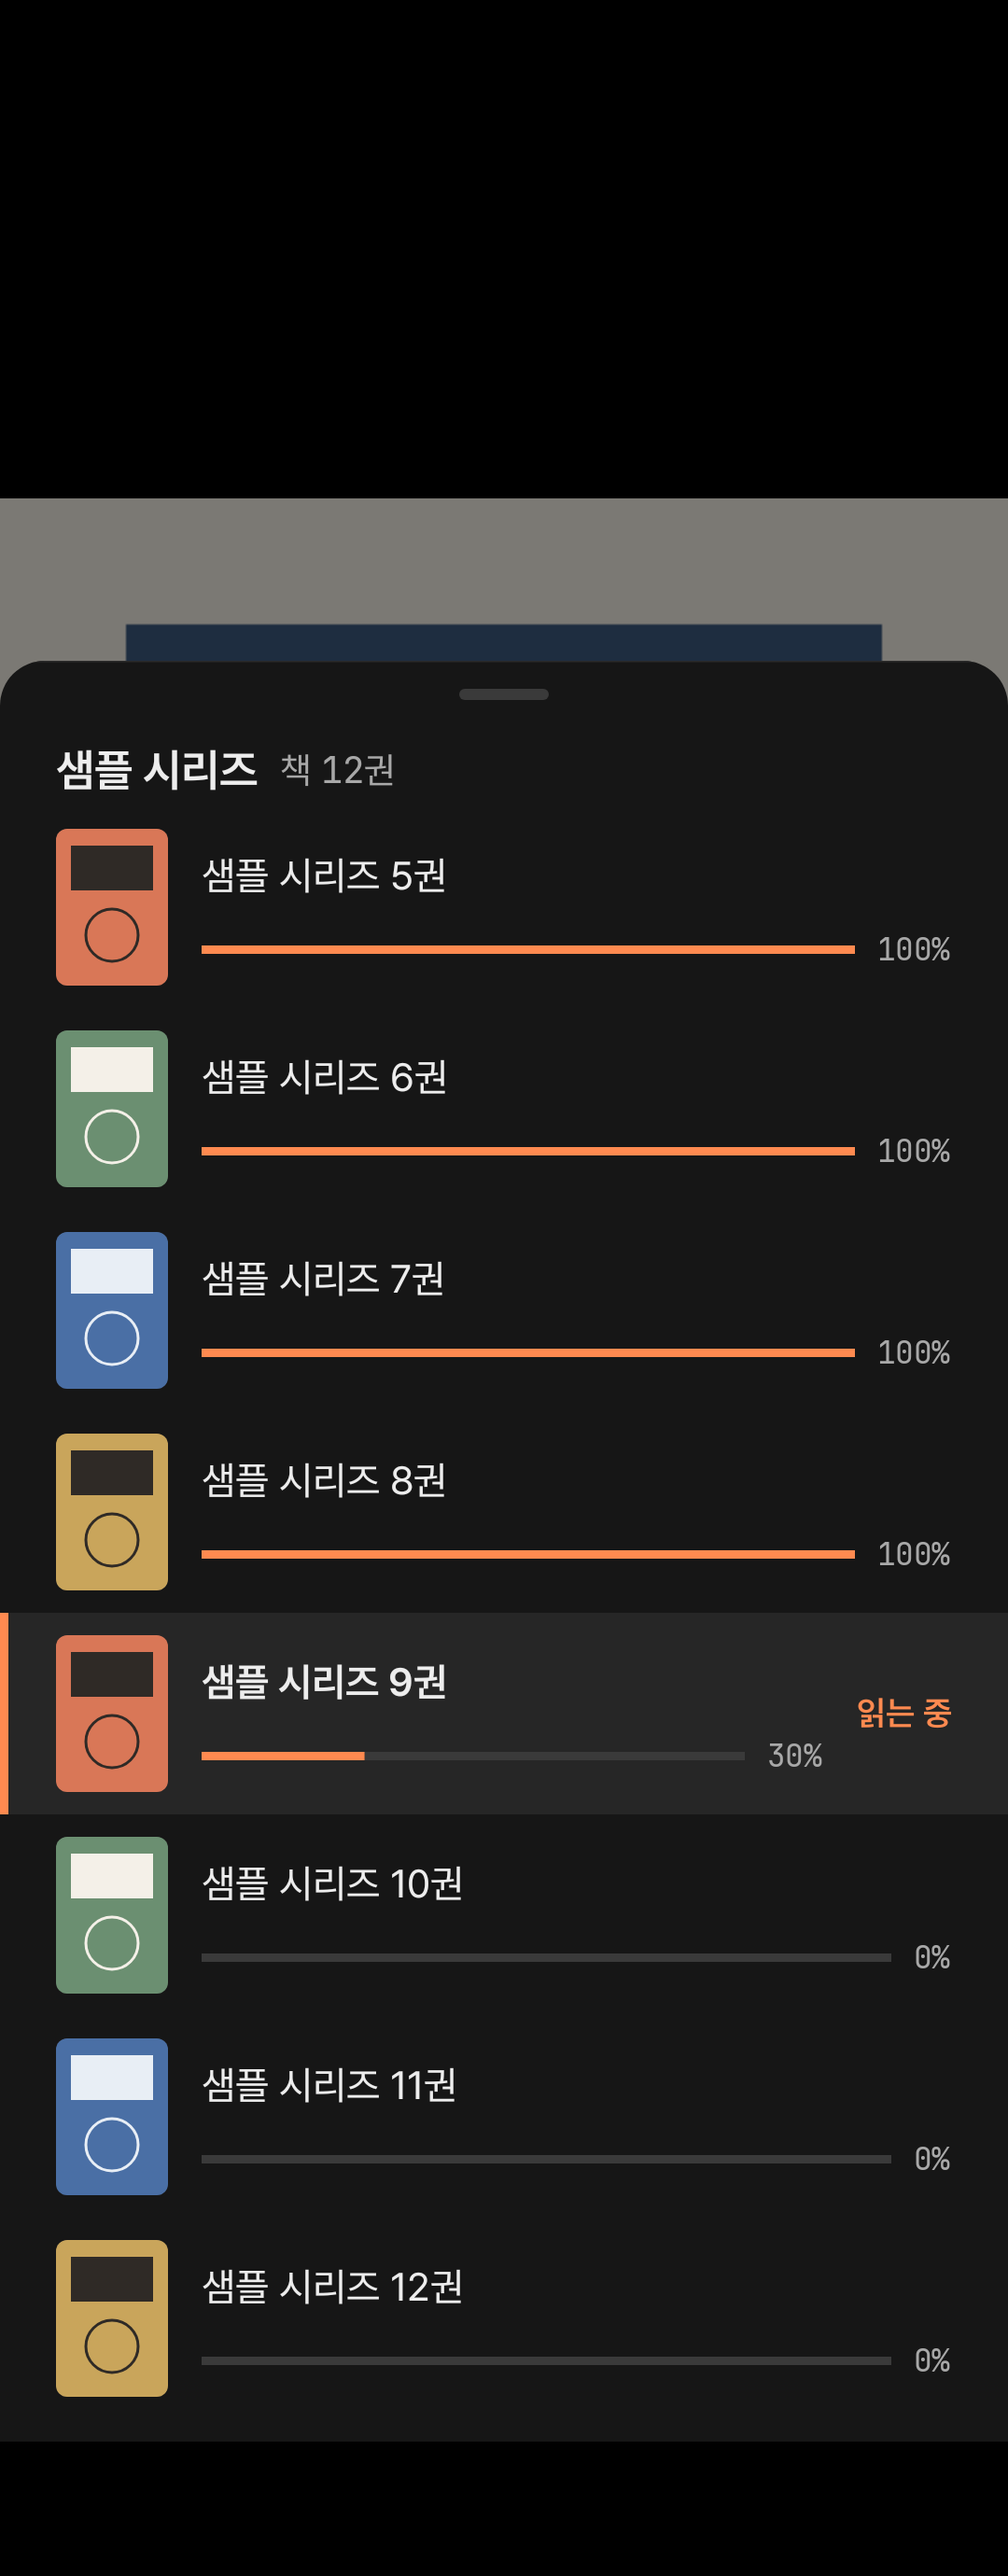
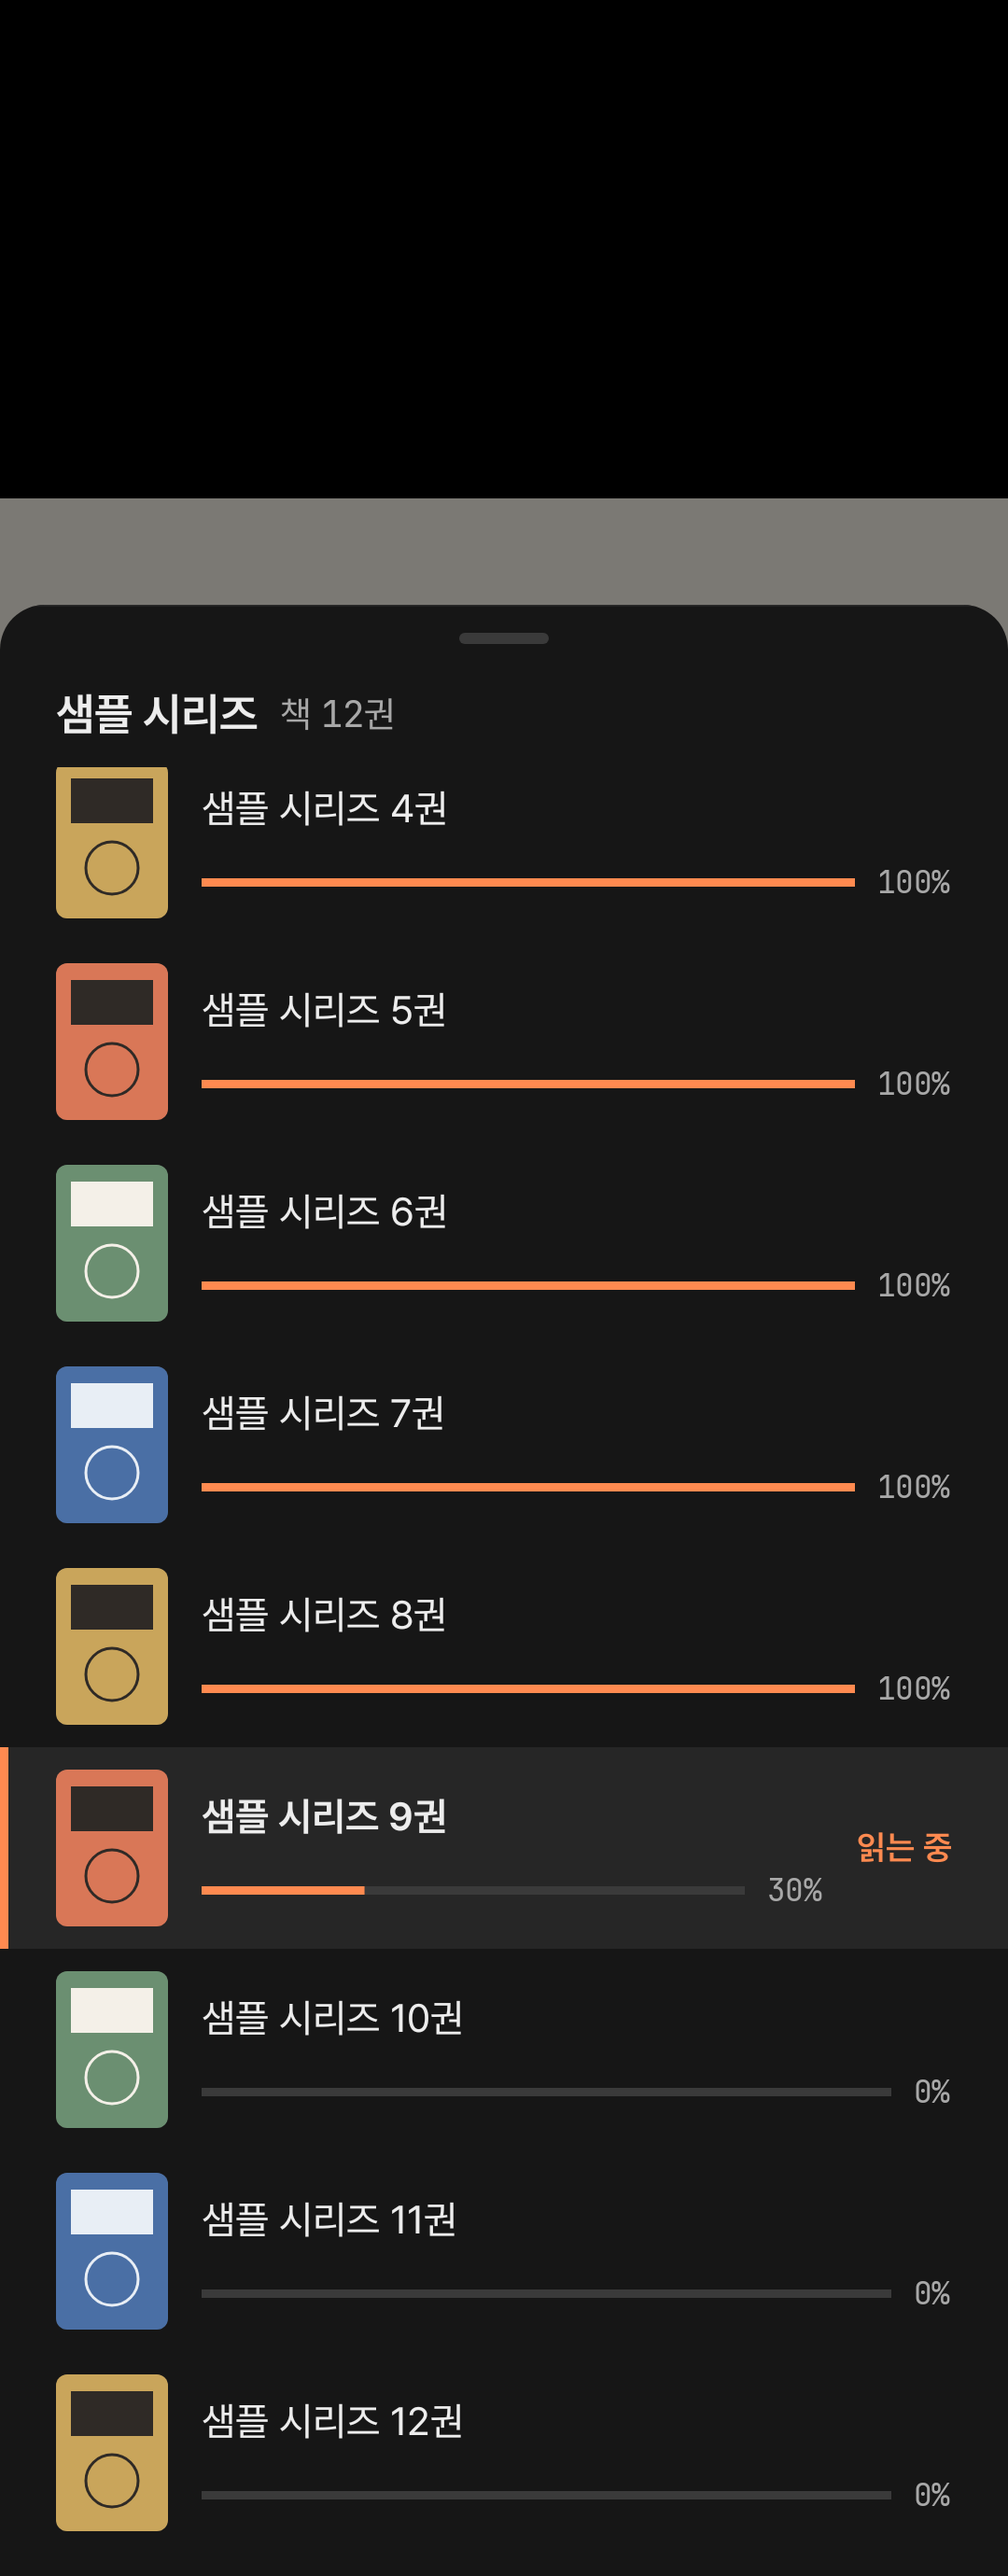
feat(reader): show book list in a modal bottom sheet

diff --git a/app/src/main/java/org/parkjw/apps/pdfbook/BookListSheet.kt b/app/src/main/java/org/parkjw/apps/pdfbook/BookListSheet.kt
@@ -4,11 +4,8 @@ import android.graphics.Bitmap
 import androidx.compose.foundation.Image
 import androidx.compose.foundation.background
 import androidx.compose.foundation.clickable
-import androidx.compose.foundation.gestures.detectTapGestures
-import androidx.compose.foundation.interaction.MutableInteractionSource
 import androidx.compose.foundation.layout.Arrangement
 import androidx.compose.foundation.layout.Box
-import androidx.compose.foundation.layout.BoxWithConstraints
 import androidx.compose.foundation.layout.Column
 import androidx.compose.foundation.layout.Row
 import androidx.compose.foundation.layout.Spacer
@@ -19,17 +16,23 @@ import androidx.compose.foundation.layout.heightIn
 import androidx.compose.foundation.layout.padding
 import androidx.compose.foundation.layout.size
 import androidx.compose.foundation.layout.width
-import androidx.compose.foundation.layout.widthIn
 import androidx.compose.foundation.lazy.LazyColumn
 import androidx.compose.foundation.lazy.itemsIndexed
 import androidx.compose.foundation.lazy.rememberLazyListState
 import androidx.compose.foundation.shape.RoundedCornerShape
+import androidx.compose.material3.ExperimentalMaterial3Api
 import androidx.compose.material3.MaterialTheme
+import androidx.compose.material3.ModalBottomSheet
 import androidx.compose.material3.Text
+import androidx.compose.material3.rememberModalBottomSheetState
 import androidx.compose.runtime.Composable
 import androidx.compose.runtime.getValue
+import androidx.compose.runtime.mutableStateOf
 import androidx.compose.runtime.produceState
 import androidx.compose.runtime.remember
+import androidx.compose.runtime.rememberCoroutineScope
+import androidx.compose.runtime.rememberUpdatedState
+import androidx.compose.runtime.setValue
 import androidx.compose.ui.Alignment
 import androidx.compose.ui.Modifier
 import androidx.compose.ui.draw.clip
@@ -37,9 +40,10 @@ import androidx.compose.ui.draw.drawBehind
 import androidx.compose.ui.geometry.Offset
 import androidx.compose.ui.geometry.Size
 import androidx.compose.ui.graphics.asImageBitmap
-import androidx.compose.ui.input.pointer.pointerInput
 import androidx.compose.ui.layout.ContentScale
 import androidx.compose.ui.platform.LocalContext
+import androidx.compose.ui.platform.LocalDensity
+import androidx.compose.ui.platform.LocalWindowInfo
 import androidx.compose.ui.platform.testTag
 import androidx.compose.ui.res.pluralStringResource
 import androidx.compose.ui.res.stringResource
@@ -65,12 +69,13 @@ import org.parkjw.apps.pdfbook.ui.theme.ReaderOverlay
 import org.parkjw.apps.pdfbook.ui.theme.ReaderScrim
 import org.parkjw.apps.pdfbook.ui.theme.ReaderTrack
 import org.parkjw.apps.pdfbook.ui.theme.withNumericSpans
+import kotlinx.coroutines.launch
 
 const val BOOK_LIST_SHEET_TAG = "book_list_sheet"
-const val BOOK_LIST_SCRIM_TAG = "book_list_scrim"
 
 private val ThumbCorner = RoundedCornerShape(4.dp)
 
+@OptIn(ExperimentalMaterial3Api::class)
 @Composable
 fun BookListSheet(
     folderName: String,
@@ -80,41 +85,52 @@ fun BookListSheet(
     modifier: Modifier = Modifier,
     covers: Map<String, Bitmap?> = emptyMap(),
 ) {
-    BoxWithConstraints(modifier.fillMaxSize()) {
-        val sheetMaxHeight = maxHeight * 0.75f
-        Box(
-            Modifier
-                .fillMaxSize()
-                .testTag(BOOK_LIST_SCRIM_TAG)
-                .background(ReaderScrim)
-                .clickable(
-                    interactionSource = remember { MutableInteractionSource() },
-                    indication = null,
-                    onClick = onDismiss,
-                ),
-        )
-        Column(
-            modifier = Modifier
-                .align(Alignment.BottomCenter)
-                .widthIn(max = 640.dp)
-                .fillMaxWidth()
-                .heightIn(max = sheetMaxHeight)
-                .testTag(BOOK_LIST_SHEET_TAG)
-                .clip(RoundedCornerShape(topStart = 16.dp, topEnd = 16.dp))
-                .background(ReaderOverlay)
-                .drawBehind {
-                    drawLine(ReaderChip, Offset(0f, 0f), Offset(size.width, 0f), 1.dp.toPx())
-                }
-                .pointerInput(Unit) { detectTapGestures { } }
-                .safeDrawingBottomBarPadding()
-                .padding(top = 10.dp, bottom = 8.dp),
-        ) {
+    val sheetState = rememberModalBottomSheetState(skipPartiallyExpanded = true)
+    val scope = rememberCoroutineScope()
+    val currentOnPick by rememberUpdatedState(onPick)
+    val currentOnDismiss by rememberUpdatedState(onDismiss)
+    val sheetMaxHeight = with(LocalDensity.current) { LocalWindowInfo.current.containerSize.height.toDp() } * 0.75f
+    var closing by remember { mutableStateOf(false) }
+    fun closeThen(action: () -> Unit) {
+        if (closing) return
+        closing = true
+        scope.launch { sheetState.hide() }.invokeOnCompletion { action() }
+    }
+    ModalBottomSheet(
+        onDismissRequest = onDismiss,
+        modifier = modifier.testTag(BOOK_LIST_SHEET_TAG),
+        sheetState = sheetState,
+        sheetMaxWidth = 640.dp,
+        shape = RoundedCornerShape(topStart = 16.dp, topEnd = 16.dp),
+        containerColor = ReaderOverlay,
+        contentColor = ReaderOnOverlay,
+        tonalElevation = 0.dp,
+        scrimColor = ReaderScrim,
+        dragHandle = {
             Box(
                 Modifier
-                    .align(Alignment.CenterHorizontally)
-                    .size(width = 32.dp, height = 4.dp)
-                    .background(ReaderTrack, PdfBookShapeTokens.pill),
-            )
+                    .fillMaxWidth()
+                    .drawBehind {
+                        drawLine(ReaderChip, Offset(0f, 0f), Offset(size.width, 0f), 1.dp.toPx())
+                    }
+                    .padding(top = 10.dp),
+                contentAlignment = Alignment.Center,
+            ) {
+                Box(
+                    Modifier
+                        .size(width = 32.dp, height = 4.dp)
+                        .background(ReaderTrack, PdfBookShapeTokens.pill),
+                )
+            }
+        },
+    ) {
+        Column(
+            Modifier
+                .fillMaxWidth()
+                .heightIn(max = sheetMaxHeight)
+                .safeDrawingBottomBarPadding()
+                .padding(bottom = 8.dp),
+        ) {
             Row(
                 modifier = Modifier
                     .fillMaxWidth()
@@ -147,7 +163,13 @@ fun BookListSheet(
                     BookListRow(
                         entry = entry,
                         covers = covers,
-                        onClick = { if (entry.isCurrent) onDismiss() else onPick(entry.book) },
+                        onClick = {
+                            if (entry.isCurrent) {
+                                closeThen { currentOnDismiss() }
+                            } else {
+                                closeThen { currentOnPick(entry.book) }
+                            }
+                        },
                     )
                 }
             }

diff --git a/app/src/test/java/org/parkjw/apps/pdfbook/ReaderVolumesComposeTest.kt b/app/src/test/java/org/parkjw/apps/pdfbook/ReaderVolumesComposeTest.kt
@@ -3,14 +3,17 @@ package org.parkjw.apps.pdfbook
 import androidx.compose.foundation.layout.fillMaxSize
 import androidx.compose.foundation.pager.rememberPagerState
 import androidx.compose.ui.Modifier
+import androidx.compose.ui.geometry.Offset
 import androidx.compose.ui.semantics.SemanticsProperties
 import androidx.compose.ui.test.SemanticsMatcher
 import androidx.compose.ui.test.assertCountEquals
 import androidx.compose.ui.test.assertIsDisplayed
 import androidx.compose.ui.test.assertIsEnabled
 import androidx.compose.ui.test.assertIsNotEnabled
+import androidx.compose.ui.test.click
 import androidx.compose.ui.test.hasClickAction
 import androidx.compose.ui.test.hasText
+import androidx.compose.ui.test.isRoot
 import androidx.compose.ui.test.junit4.v2.createComposeRule
 import androidx.compose.ui.test.onAllNodesWithTag
 import androidx.compose.ui.test.onAllNodesWithText
@@ -18,6 +21,8 @@ import androidx.compose.ui.test.onNodeWithContentDescription
 import androidx.compose.ui.test.onNodeWithTag
 import androidx.compose.ui.test.onNodeWithText
 import androidx.compose.ui.test.performClick
+import androidx.compose.ui.test.performTouchInput
+import androidx.test.espresso.Espresso
 import androidx.test.ext.junit.runners.AndroidJUnit4
 import org.junit.Assert.assertEquals
 import org.junit.Assert.assertTrue
@@ -37,7 +42,11 @@ class ReaderVolumesComposeTest {
 
     private fun book(n: Int) = BookInfo("doc:$n", "책 ${n}권.pdf", 10)
 
-    private fun setReader(volumes: ReaderVolumes, title: String = "책 1권") {
+    private fun setReader(
+        volumes: ReaderVolumes,
+        title: String = "책 1권",
+        direction: ReadingDirection = ReadingDirection.RTL,
+    ) {
         val pageCount = 4
         val pageSpreads = spreads(pageCount, twoPage = false, coverAlone = true)
         composeRule.setContent {
@@ -52,6 +61,7 @@ class ReaderVolumesComposeTest {
                     twoPage = false,
                     onBack = {},
                     onDirectionChange = {},
+                    direction = direction,
                     overlayVisible = true,
                     showTapZoneGuide = false,
                     volumes = volumes,
@@ -141,12 +151,58 @@ class ReaderVolumesComposeTest {
     }
 
     @Test
+    fun backClosesSheet() {
+        setReader(ReaderVolumes(bookList = list(listOf(book(1), book(2)), book(1))))
+        composeRule.onNodeWithContentDescription("책 목록").performClick()
+        composeRule.onNodeWithTag(BOOK_LIST_SHEET_TAG).assertIsDisplayed()
+        Espresso.pressBack()
+        composeRule.waitForIdle()
+        composeRule.onAllNodesWithTag(BOOK_LIST_SHEET_TAG).assertCountEquals(0)
+    }
+
+    @Test
     fun scrimTapClosesSheet() {
         setReader(ReaderVolumes(bookList = list(listOf(book(1), book(2)), book(1))))
         composeRule.onNodeWithContentDescription("책 목록").performClick()
-        composeRule.onNodeWithTag(BOOK_LIST_SCRIM_TAG).performClick()
+        composeRule.onNodeWithTag(BOOK_LIST_SHEET_TAG).assertIsDisplayed()
+        composeRule.onAllNodes(isRoot())[1].performTouchInput { click(Offset(width / 2f, 10f)) }
         composeRule.waitForIdle()
         composeRule.onAllNodesWithTag(BOOK_LIST_SHEET_TAG).assertCountEquals(0)
+    }
+
+    @Test
+    fun bl2RepeatedRowTapsPickOnce() {
+        val picked = mutableListOf<String>()
+        setReader(
+            ReaderVolumes(
+                bookList = list(listOf(book(1), book(2), book(3)), book(1)),
+                onPick = { picked += it.name },
+            ),
+        )
+        composeRule.onNodeWithContentDescription("책 목록").performClick()
+        composeRule.waitForIdle()
+        composeRule.mainClock.autoAdvance = false
+        composeRule.onNode(hasText("책 2권") and hasClickAction()).performClick()
+        composeRule.onNode(hasText("책 3권") and hasClickAction()).performClick()
+        composeRule.mainClock.autoAdvance = true
+        composeRule.waitForIdle()
+        assertEquals(listOf("책 2권.pdf"), picked)
+    }
+
+    @Test
+    fun nb3RightToLeftBookPutsNextOnTheLeft() {
+        setReader(ReaderVolumes(onPrevious = {}, onNext = {}), direction = ReadingDirection.RTL)
+        val next = composeRule.onNodeWithContentDescription("다음 권").fetchSemanticsNode().boundsInRoot
+        val previous = composeRule.onNodeWithContentDescription("이전 권").fetchSemanticsNode().boundsInRoot
+        assertTrue(next.right <= previous.left)
+    }
+
+    @Test
+    fun nb3LeftToRightBookPutsNextOnTheRight() {
+        setReader(ReaderVolumes(onPrevious = {}, onNext = {}), direction = ReadingDirection.LTR)
+        val next = composeRule.onNodeWithContentDescription("다음 권").fetchSemanticsNode().boundsInRoot
+        val previous = composeRule.onNodeWithContentDescription("이전 권").fetchSemanticsNode().boundsInRoot
+        assertTrue(previous.right <= next.left)
     }
 
     @Test

diff --git a/app/src/test/java/org/parkjw/apps/pdfbook/screenshot/ReaderVolumesScreenshotsTest.kt b/app/src/test/java/org/parkjw/apps/pdfbook/screenshot/ReaderVolumesScreenshotsTest.kt
@@ -2,14 +2,21 @@ package org.parkjw.apps.pdfbook.screenshot
 
 import androidx.compose.foundation.layout.fillMaxSize
 import androidx.compose.foundation.pager.rememberPagerState
+import androidx.compose.runtime.Composable
 import androidx.compose.ui.Modifier
 import androidx.test.ext.junit.runners.AndroidJUnit4
+import androidx.compose.ui.test.junit4.v2.createComposeRule
+import androidx.compose.ui.test.onRoot
+import com.github.takahirom.roborazzi.ExperimentalRoborazziApi
 import com.github.takahirom.roborazzi.captureRoboImage
+import com.github.takahirom.roborazzi.captureScreenRoboImage
 import org.junit.Assume.assumeTrue
 import org.junit.Before
+import org.junit.Rule
 import org.junit.Test
 import org.junit.runner.RunWith
 import org.parkjw.apps.pdfbook.ReaderScreen
+import org.parkjw.apps.pdfbook.ReadingDirection
 import org.parkjw.apps.pdfbook.spreads
 import org.parkjw.apps.pdfbook.ui.theme.ReaderBackground
 import org.robolectric.annotation.Config
@@ -19,6 +26,9 @@ import org.robolectric.annotation.GraphicsMode
 @GraphicsMode(GraphicsMode.Mode.NATIVE)
 @Config(sdk = [37])
 class ReaderVolumesScreenshotsTest {
+    @get:Rule
+    val composeRule = createComposeRule()
+
     @Before
     fun onlyWhenRecordingOrVerifying() {
         assumeTrue(
@@ -50,38 +60,55 @@ class ReaderVolumesScreenshotsTest {
     )
 
     @Test
+    @Config(qualifiers = FOLDED_QUALIFIERS)
+    fun rtlVolumesFirstLightFolded() = captureReader(
+        dark = false,
+        file = "reader-rtl-volumes-first-light-folded.png",
+        current = 1,
+        bookList = false,
+    )
+
+    @Test
     @Config(qualifiers = FOLDED_EN_QUALIFIERS)
     fun bookListLightFoldedEn() = captureBookList(dark = false, file = "reader-book-list-light-folded-en.png")
 
     private fun captureBookList(dark: Boolean, file: String) =
         captureReader(dark = dark, file = file, current = 9, bookList = true)
 
+    @OptIn(ExperimentalRoborazziApi::class)
     private fun captureReader(dark: Boolean, file: String, current: Int, bookList: Boolean) {
+        val content = @Composable { ReaderContent(dark, current, bookList) }
+        composeRule.setContent { content() }
+        composeRule.waitForIdle()
+        if (bookList) captureScreenRoboImage(file) else composeRule.onRoot().captureRoboImage(file)
+    }
+
+    @Composable
+    private fun ReaderContent(dark: Boolean, current: Int, bookList: Boolean) {
         val pageCount = 120
         val pageSpreads = spreads(pageCount, twoPage = false, coverAlone = true)
-        captureRoboImage(file) {
-            ScreenshotTheme(dark, ReaderBackground) {
-                ReaderScreen(
-                    renderer = SolidPageBitmaps(
-                        pageCount = pageCount,
-                        pageColor = 0xFFF7F2E8.toInt(),
-                        accentColor = 0xFF3D5A80.toInt(),
-                    ),
-                    pagerState = rememberPagerState(initialPage = 36, pageCount = { pageSpreads.size }),
-                    spreads = pageSpreads,
-                    title = "샘플 시리즈 ${current}권",
+        ScreenshotTheme(dark, ReaderBackground) {
+            ReaderScreen(
+                renderer = SolidPageBitmaps(
                     pageCount = pageCount,
-                    currentPage = 37,
-                    twoPage = false,
-                    onBack = {},
-                    onDirectionChange = {},
-                    overlayVisible = true,
-                    showTapZoneGuide = false,
-                    volumes = sampleReaderVolumes(current),
-                    bookListVisible = bookList,
-                    modifier = Modifier.fillMaxSize(),
-                )
-            }
+                    pageColor = 0xFFF7F2E8.toInt(),
+                    accentColor = 0xFF3D5A80.toInt(),
+                ),
+                pagerState = rememberPagerState(initialPage = 36, pageCount = { pageSpreads.size }),
+                spreads = pageSpreads,
+                title = "샘플 시리즈 ${current}권",
+                pageCount = pageCount,
+                currentPage = 37,
+                twoPage = false,
+                onBack = {},
+                onDirectionChange = {},
+                direction = ReadingDirection.RTL,
+                overlayVisible = true,
+                showTapZoneGuide = false,
+                volumes = sampleReaderVolumes(current),
+                bookListVisible = bookList,
+                modifier = Modifier.fillMaxSize(),
+            )
         }
     }
 }
